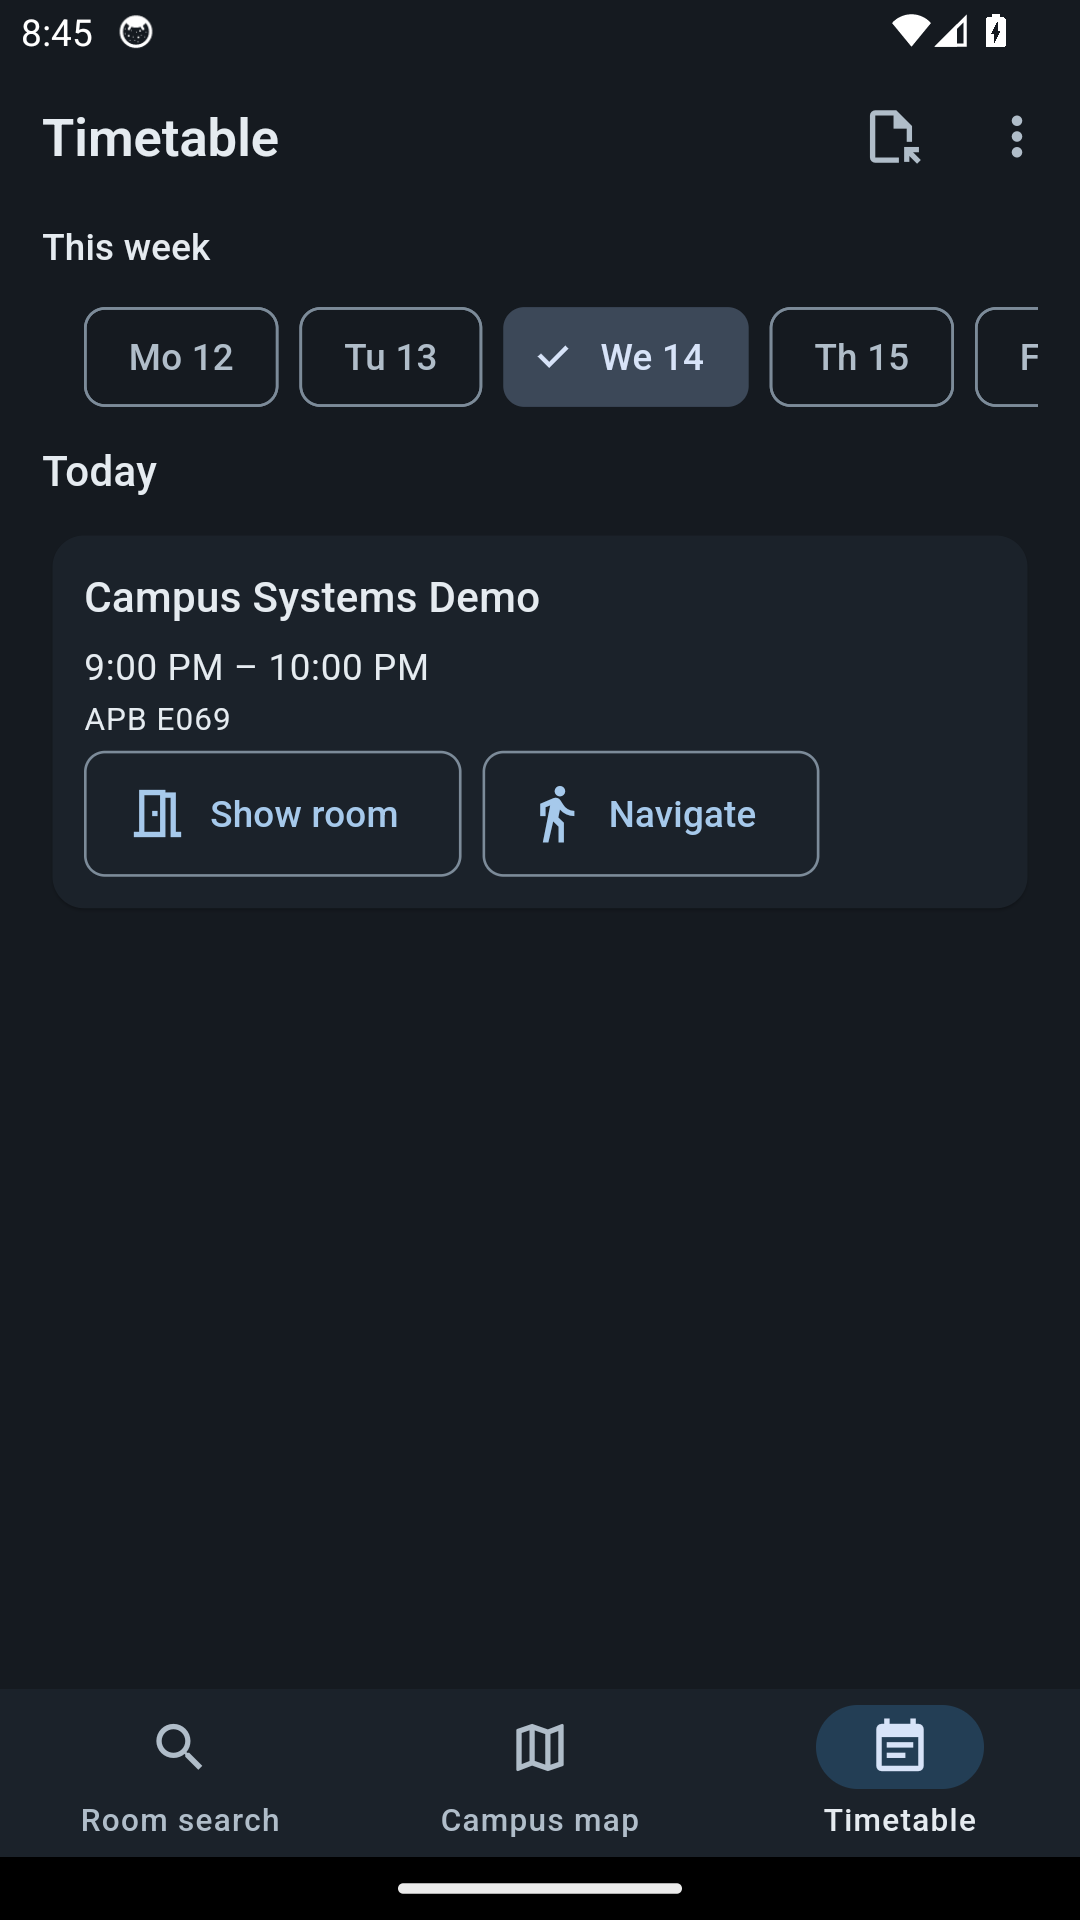
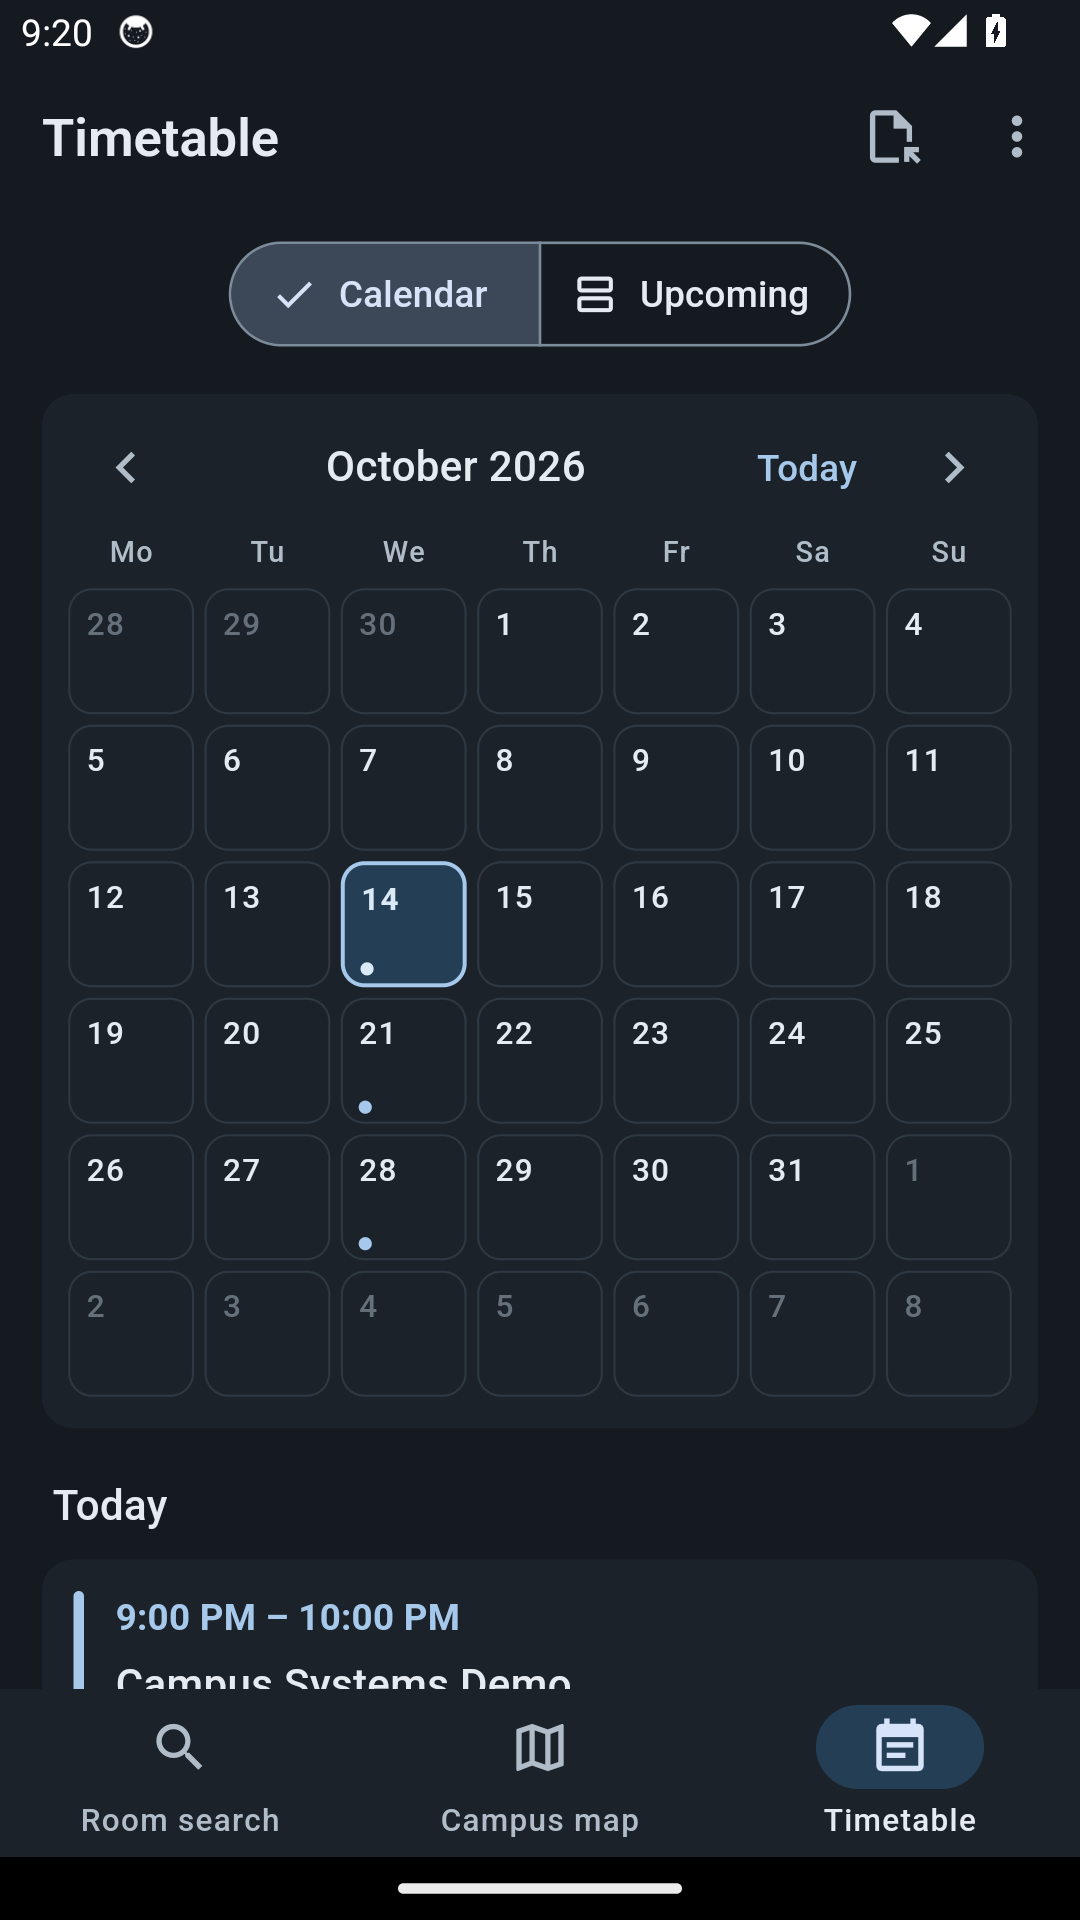
docs: add integrated feature and emulator evidence

diff --git a/docs/room-details-api.md b/docs/room-details-api.md
@@ -1,0 +1,83 @@
+# Room details data contract
+
+The room detail panel combines two public data sources for a numeric room ID
+already present as the final segment of the selected `BuildingPageData` route:
+
+- `GET https://navigator.tu-dresden.de/raum/{roomId}?language={locale}` for
+  human-readable room and building fields.
+- `GET https://navigator.tu-dresden.de/api/0.1/roominfo/{roomId}` for the
+  structured room name and adjacent door/room identifiers.
+
+The service validates room IDs as six digits, a dot, and four digits before it
+makes a request. It serves fresh cached responses according to the existing
+configured cache duration, refreshes expired entries, and falls back to an
+existing non-empty cached response if the refresh encounters a network error,
+HTTP 5xx, or malformed JSON. A cache miss requires a successful HTTP 200
+response. Other failures are surfaced to the UI, which offers retry.
+
+## Field handling
+
+The localized room page uses German or English labels; the parser and fixture
+set cover both label sets. The sampled room `325301.0010` has API name `151`,
+one door connecting it to `325301.0032`, and page fields for building part,
+building number `3253`, floor `floor 1`/`Etage 1`, 128 places, remark
+`mobile Liege`, and a room usage description.
+Room `325301.0032` is named `151C` and has an empty `doors` array. Room details
+fixtures live in `test/fixtures/room_details/`.
+
+The JSON API's `accessibility` and `doorplate` parameters returned Java object
+identity strings in the sampled response. Those values are represented as
+unknown and are not shown. API `type`, `routing`, `empty`, and door location
+values are not presented as user-facing claims; the integer type code has no
+verified user-facing meaning. The sampled room page's accessibility section
+had no accessible room-specific text. Optional HTML values retain three states
+in the model: absent, explicit `NO_INFO`/unknown, and a value. Only non-empty
+known values are displayed.
+
+The JSON fixtures are captured response payloads. The German and English HTML
+fixtures are representative parser fixtures assembled from fields visible on
+the official room page; they are not captured full page responses. If the site's markup
+changes, update that fixture from a reviewed public page sample and extend the
+parser tests before changing field extraction.
+
+## Occupancy and authentication
+
+The detail service does not load or infer occupancy. The existing occupancy
+flow remains separate and uses the app's TU Dresden/ZIH login path. The public
+room page indicates room schedules are behind institutional authentication;
+the app must not bypass that access control or label a room available without
+current authenticated schedule data.
+
+For later schedule work, keep the public `RoomDetailsService` independent from
+occupancy. An authenticated schedule provider can wrap the existing
+`postLogin`/`getRoomPlan` flow and return schedule rows with their room ID and
+time range. The UI should distinguish login-required, no schedule returned,
+and a schedule with a stated retrieval time; it should never infer current
+availability from room type, `empty`, or a stale schedule cache.
+
+## Favorites and integration
+
+Favorite room IDs are stored as a JSON string list in secure storage under
+`FavoriteRooms`. Only canonical numeric IDs are retained; malformed storage
+loads as an empty set. The existing `BuildingScreen` remains the only detail
+surface: phone layouts use its draggable sheet, while wider layouts show the
+same detail content in a side panel. Connected-room actions reuse the existing
+floorplan route prefix with the destination numeric ID. The floorplan renderer
+is unchanged; its canvas receives the width available beside the tablet panel.
+
+## Verification and screenshots
+
+`flutter analyze`, `flutter test`, and an Android debug APK build were run for
+this feature. The full analyzer still reports pre-existing repository issues:
+the Android and iOS widget-test entry points import missing platform packages,
+plus existing diagnostics outside the room-details files. The feature tests
+passed.
+
+Phone interaction was tested in an Android 14 API 34 emulator: the live search
+opened room `325301.0010`, the details rendered from the public page/API, the
+favorite control toggled, and the connected-room chip opened `325301.0032`.
+Light mode was captured on the phone; light and dark modes were captured in a
+tablet-width landscape viewport. The tablet viewport was configured at
+1920x1080 and 240 dpi on the Pixel 2 AVD, so it verifies the responsive tablet
+layout but is not a physical tablet test. The screenshots and capture details
+are in `docs/screenshots/`.

diff --git a/docs/screenshots/README.md b/docs/screenshots/README.md
@@ -1,0 +1,18 @@
+# Room details emulator captures
+
+These are direct ADB screenshots of the installed debug APK, using the live TU
+Dresden search and room-detail endpoints.
+
+- `room-details-phone.png`: room 151 on the phone viewport, light theme.
+- `room-details-phone-favorite.png`: same detail view after saving the room as
+  a favorite.
+- `connected-room-phone.png`: floorplan after opening the connected room ID
+  `325301.0032` from the room-details chip.
+- `room-tablet-landscape.png`: tablet-width layout, light theme.
+- `room-tablet-dark.png`: tablet-width layout, dark theme.
+
+The emulator ran Android 14 (API 34), x86_64. The phone viewport was
+1080x1920 at 420 dpi. For tablet-width coverage, the Pixel 2 AVD used an
+overridden 1920x1080 resolution at 240 dpi (1280x720 logical pixels). This
+checks the responsive layout at tablet width; it is not a physical tablet
+capture.

diff --git a/docs/timetable.md b/docs/timetable.md
@@ -100,6 +100,10 @@ These screenshots were captured from the Android API 34 emulator at 1080 ×
 - [Google Maps walking destination](timetable-evidence/maps-route.png)
 - [Next-event preview after restarting the app](timetable-evidence/restart.png)
 
+The dark-theme phone capture shows the monthly calendar redesign. The light-theme
+phone capture is from the previous week-strip layout; a fresh light-mode
+emulator capture remains pending.
+
 ## Troubleshooting
 
 - If an import fails, check that the file is UTF-8 iCalendar 2.0 and does not
